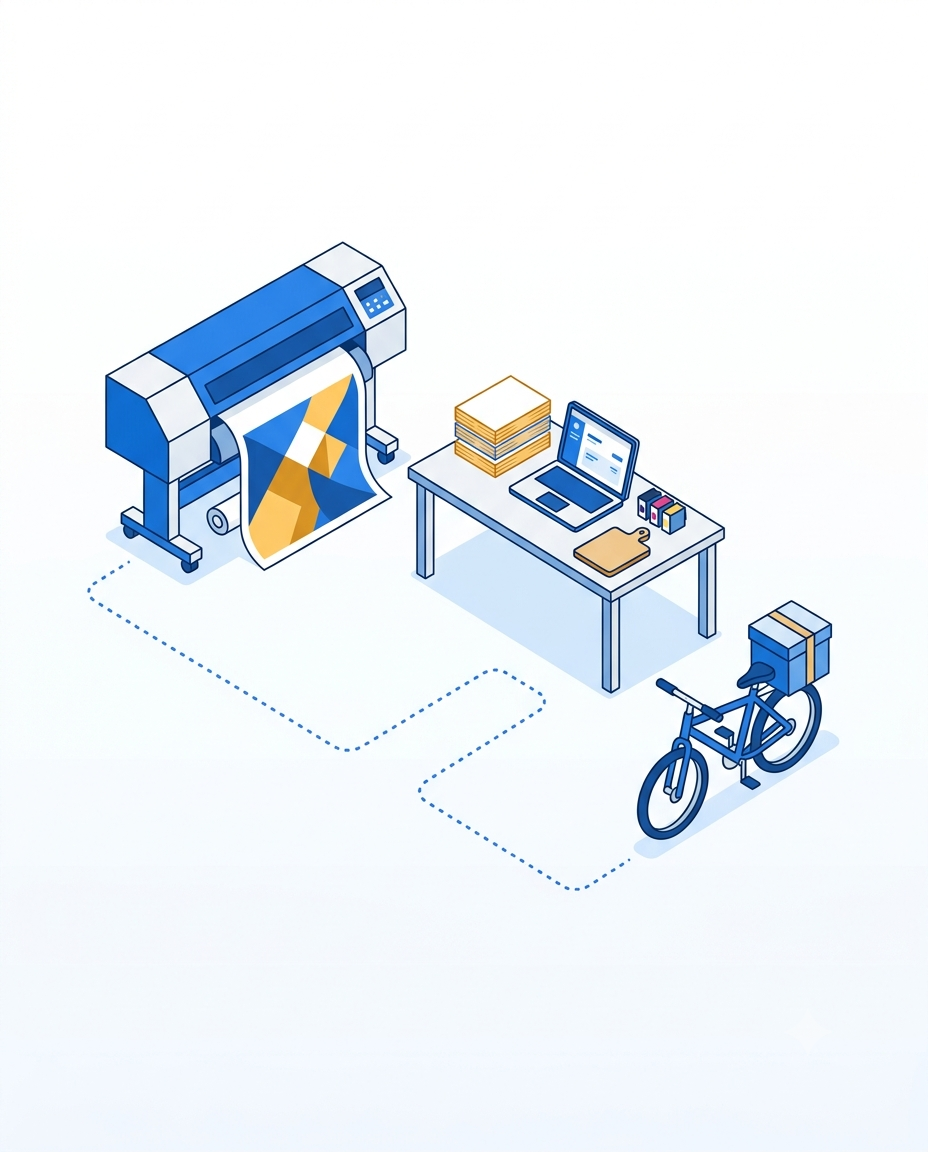
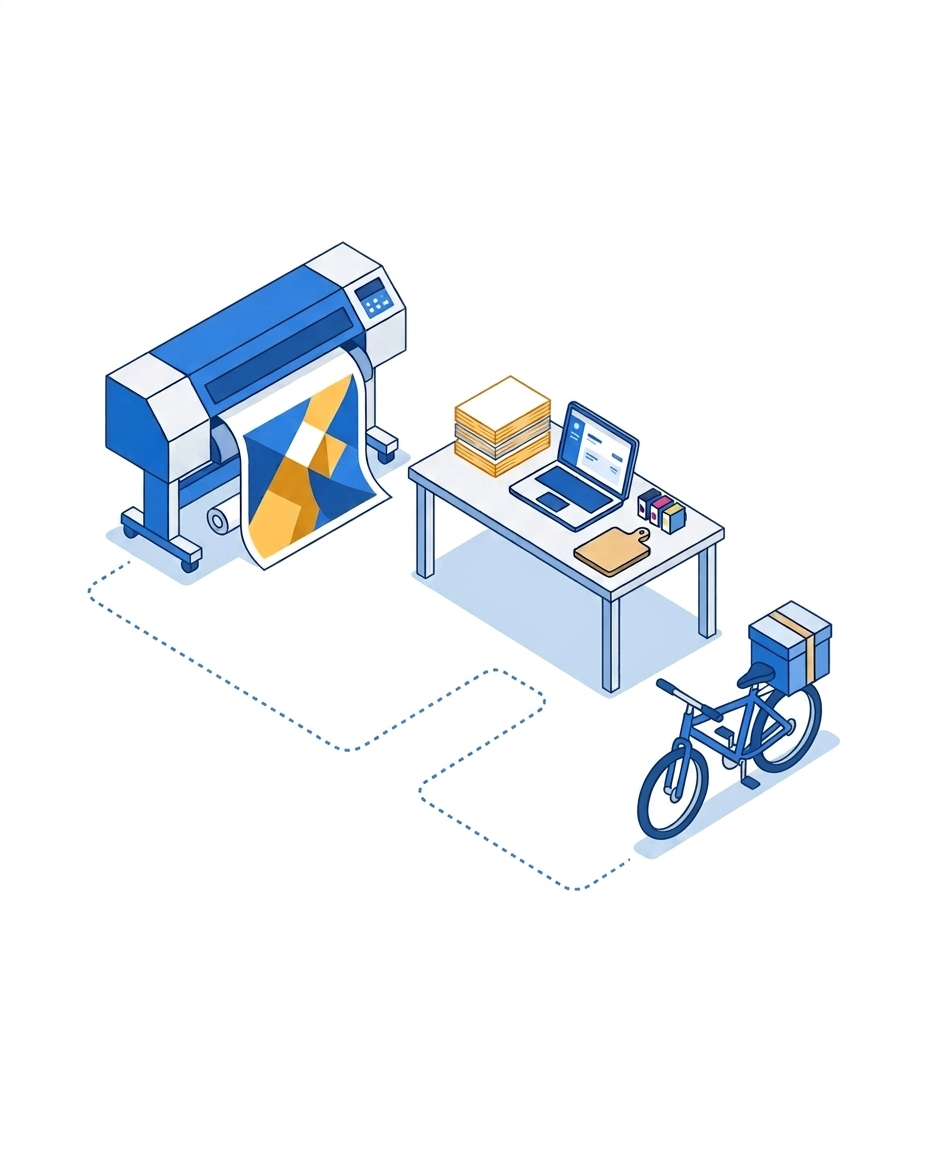
[PS-02JUL26]: Remove filter from the hero section image and replace the hero image with correct image

diff --git a/components/landing/Hero.tsx b/components/landing/Hero.tsx
@@ -63,9 +63,7 @@ export default function Hero({}: HeroProps) {
           {/* Right column — hero image */}
           <div className="flex-1 flex justify-center md:justify-end">
             <div
-              className="relative w-full max-w-[480px] mx-auto md:mx-0"
-              style={{ filter: 'drop-shadow(0px 16px 48px rgba(26, 115, 232, 0.12))' }}
-            >
+              className="relative w-full max-w-[480px] mx-auto md:mx-0" >
               <Image
                 src="/images/hero-image.png"
                 alt="MyPrint order tracking dashboard preview"
